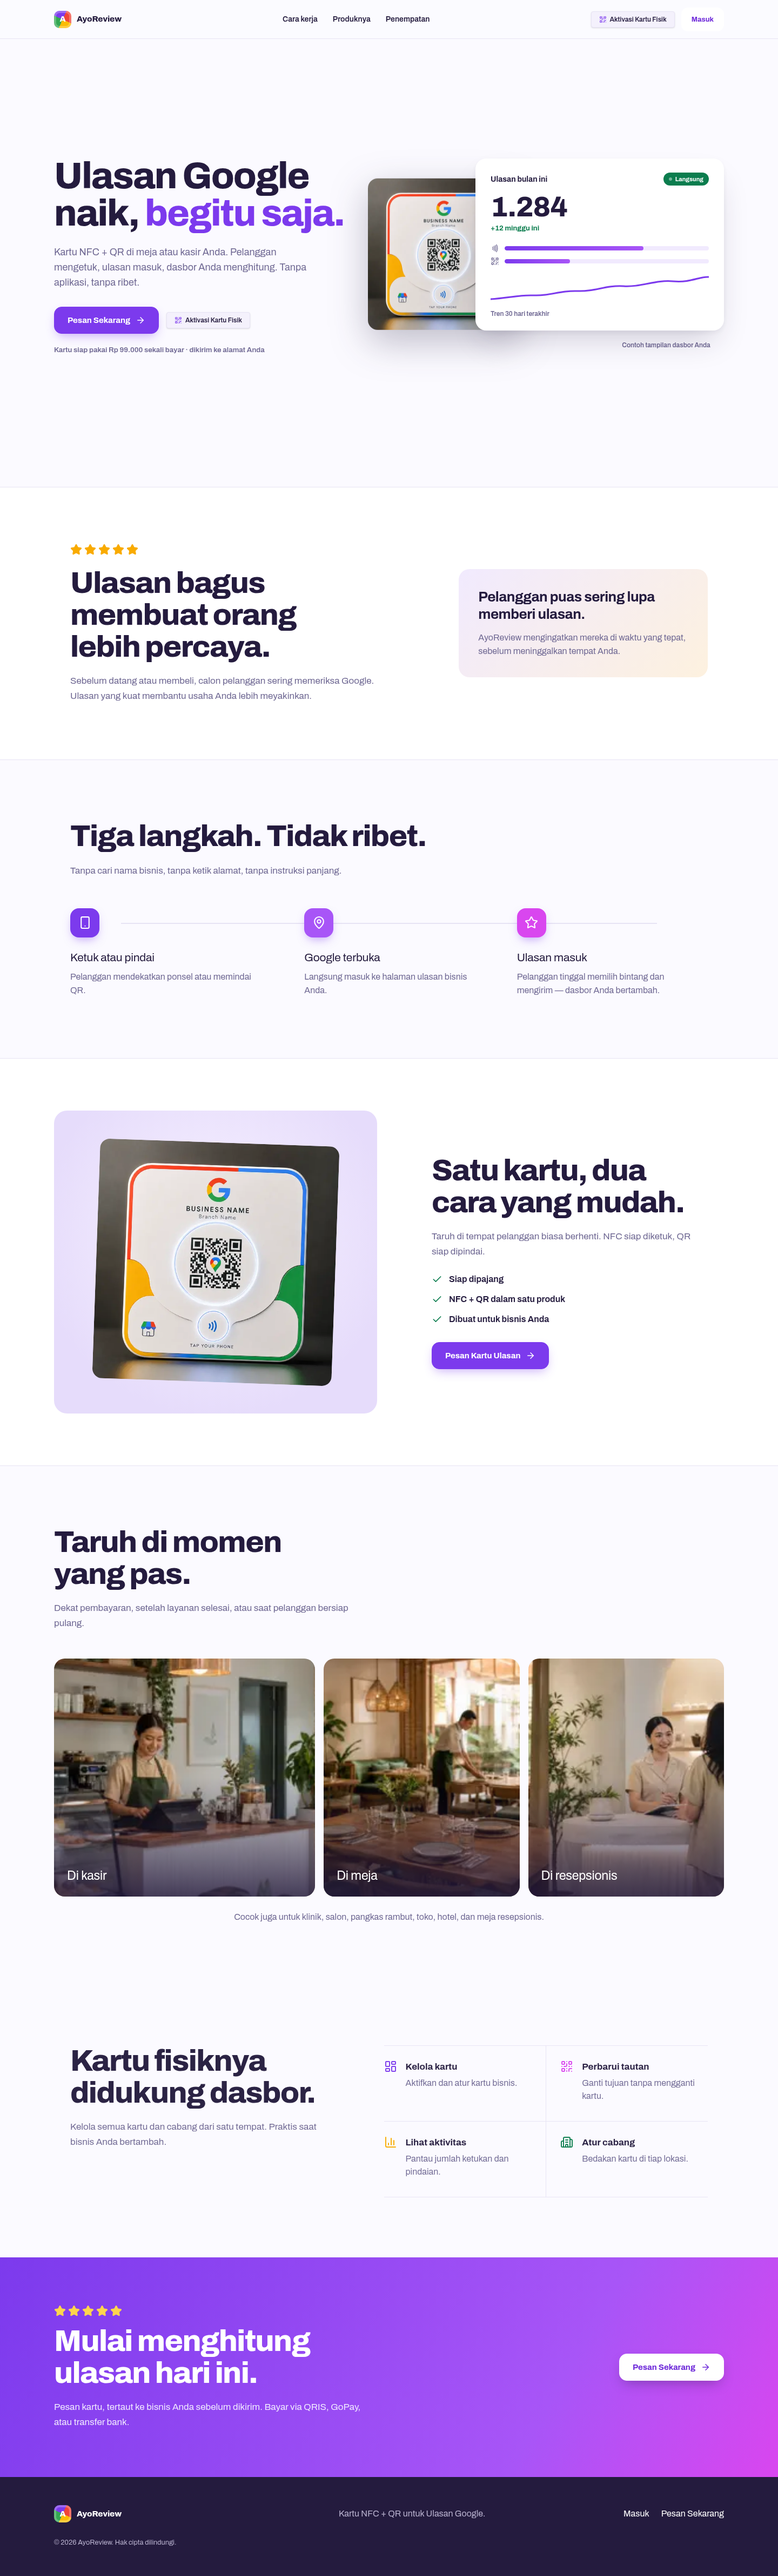
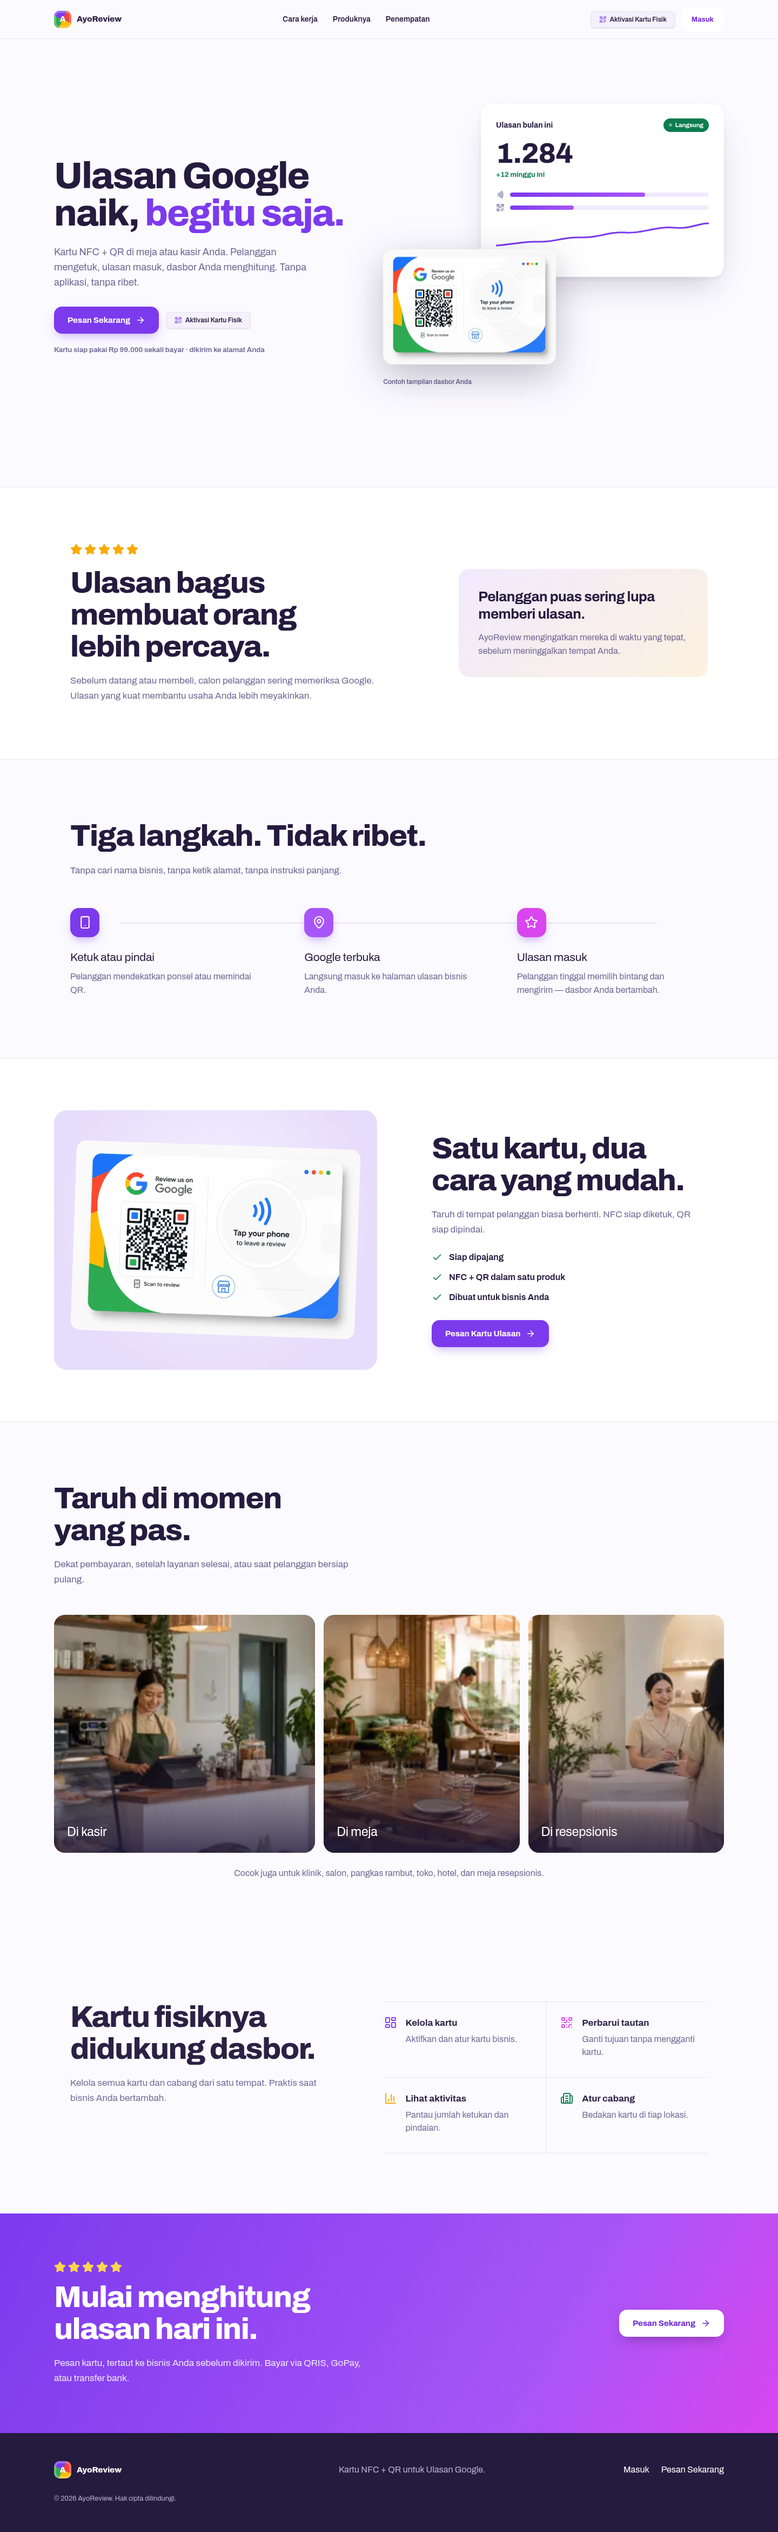
design: use real NFC card art; fix hero card overlap
- Swap review-card-reference.png for user-supplied landscape card
  design (public/images/nfc-card-design.png + provenance sidecar)
- Card now stacks below the dashboard panel overlapping only its
  bottom edge; nothing is covered on desktop or mobile
- 3/2 aspect ratio for the landscape art; product stage resized

diff --git a/src/app/landing.css b/src/app/landing.css
@@ -47,8 +47,8 @@
 .hero-note{margin:20px 0 0;color:var(--muted);font-size:13.5px;font-weight:600}
 
 /* dashboard mock — the proof */
-.hero-demo{position:relative;padding:0 0 44px}
-.dash-mock{position:relative;z-index:1;margin-left:auto;width:min(460px,92%);padding:26px 28px 22px;border-radius:20px;background:var(--surface);box-shadow:0 30px 60px -18px rgba(36,27,62,.22),0 4px 12px rgba(36,27,62,.06)}
+.hero-demo{position:relative;padding:0 0 40px}
+.dash-mock{position:relative;z-index:1;margin-left:auto;width:min(450px,90%);padding:26px 28px 22px;border-radius:20px;background:var(--surface);box-shadow:0 30px 60px -18px rgba(36,27,62,.22),0 4px 12px rgba(36,27,62,.06)}
 .dash-head{display:flex;align-items:center;justify-content:space-between;margin-bottom:14px}
 .dash-head strong{font-size:14px}
 .dash-live{display:inline-flex;align-items:center;gap:6px;padding:4px 10px;border-radius:99px;background:var(--green);color:#fff;font-size:11px;font-weight:700}
@@ -66,13 +66,12 @@
 .spark-line{fill:none;stroke:var(--violet);stroke-width:3;stroke-linecap:round;stroke-dasharray:340;stroke-dashoffset:340;animation:spark-draw 1.6s .6s ease-out both}
 @keyframes spark-draw{to{stroke-dashoffset:0}}
 .dash-foot{margin-top:8px;color:var(--muted);font-size:12px;font-weight:600}
-.demo-card-wrap{position:absolute;left:-28px;bottom:36px;z-index:0;width:min(280px,54%);filter:drop-shadow(0 22px 34px rgba(36,27,62,.28))}
+.demo-card-wrap{position:relative;z-index:2;width:min(320px,62%);margin:-42px auto 0 0;filter:drop-shadow(0 22px 34px rgba(36,27,62,.28))}
 .demo-card-wrap .review-card{animation:card-float 7s ease-in-out infinite}
-.dash-mock{margin-left:auto}
-.demo-caption{position:absolute;right:4%;bottom:8px;margin:0;color:var(--muted);font-size:12px;font-weight:600}
+.demo-caption{margin:14px 0 0 auto;color:var(--muted);font-size:12px;font-weight:600}
 
 /* physical card image (shared) */
-.review-card{position:relative;width:min(100%,520px);aspect-ratio:1/1;border-radius:18px;overflow:hidden;transform:rotate(-3deg)}
+.review-card{position:relative;width:min(100%,560px);aspect-ratio:3/2;border-radius:18px;overflow:hidden;transform:rotate(-3deg)}
 .review-card img{object-fit:cover}
 @keyframes card-float{0%,100%{transform:translateY(0)}50%{transform:translateY(-10px)}}
 
@@ -105,8 +104,8 @@
 
 /* ---------- product ---------- */
 .product{padding:96px max(24px,calc((100vw - 1240px)/2));display:grid;grid-template-columns:1.05fr .95fr;align-items:center;gap:clamp(48px,7vw,110px);background:var(--surface);border-block:1px solid var(--line)}
-.product-stage{min-height:560px;display:grid;place-items:center;border-radius:24px;background:radial-gradient(circle at 50% 42%,var(--violet-soft) 0 30%,#e6dcfb 75%);overflow:hidden}
-.product-stage .review-card{width:min(74%,470px);transform:rotate(2deg)}
+.product-stage{min-height:480px;display:grid;place-items:center;border-radius:24px;background:radial-gradient(circle at 50% 42%,var(--violet-soft) 0 30%,#e6dcfb 75%);overflow:hidden}
+.product-stage .review-card{width:min(88%,540px);transform:rotate(2deg)}
 .product-copy>p{max-width:480px}
 .product-points{margin:26px 0 30px;display:grid;gap:13px}
 .product-points span{display:flex;align-items:center;gap:12px;font-weight:650}
@@ -170,10 +169,10 @@
   .button-small{min-height:42px}
   .hero{min-height:auto;grid-template-columns:1fr;gap:44px;padding:52px 0 64px}
   .hero h1{font-size:clamp(38px,11vw,50px)}
-  .hero-demo{order:2;padding-bottom:150px}
+  .hero-demo{order:2;padding-bottom:8px}
   .dash-mock{margin:0 auto;width:min(440px,100%)}
-  .demo-card-wrap{left:6px;bottom:0;width:180px}
-  .demo-caption{right:0;bottom:4px}
+  .demo-card-wrap{width:min(300px,64%);margin-top:-30px}
+  .demo-caption{margin-top:12px}
   .trust-story,.how,.product,.placements,.software{padding-block:76px}
   .trust-story,.product,.software{grid-template-columns:1fr}
   .trust-story{gap:40px}
@@ -202,11 +201,11 @@
   .hero h1{font-size:37px}
   .trust-copy h2,.section-heading h2,.product-copy h2,.software-copy h2,.closing h2{font-size:33px}
   .dash-count strong{font-size:42px}
-  .demo-card-wrap{width:62%}
+  .demo-card-wrap{width:70%}
 }
 @media(prefers-reduced-motion:reduce){
   .landing{scroll-behavior:auto}
   .landing *,.landing *:before,.landing *:after{animation:none!important;transition:none!important}
   .spark-line{stroke-dashoffset:0}
-  .demo-card-wrap .review-card{transform:rotate(-3deg)}
+
 }

diff --git a/src/app/page.tsx b/src/app/page.tsx
@@ -30,7 +30,7 @@ const placements = [
 ];
 
 function ReviewCard({ priority = false }: { priority?: boolean }) {
-  return <div className="review-card"><Image src="/images/review-card-reference.png" alt="Kartu AyoReview dengan merek Google, nama bisnis, kode QR, dan area ketuk NFC" fill priority={priority} sizes="(max-width: 700px) 88vw, 520px" /></div>;
+  return <div className="review-card"><Image src="/images/nfc-card-design.png" alt="Kartu AyoReview: kode QR untuk scan dan area NFC untuk ketuk, dengan merek Google" fill priority={priority} sizes="(max-width: 700px) 88vw, 520px" /></div>;
 }
 
 function ReviewStars({ label = 'Bintang dari pelanggan' }: { label?: string }) {
